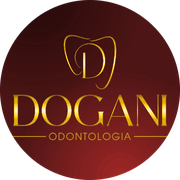
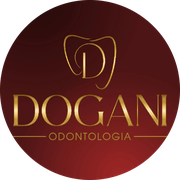
Ouro suave, equipe, pre-agendamento e ajustes mobile
- Dourado mais suave (champanhe) nos detalhes e no logo
- Secao Nossa equipe com foto real do Instagram
- Depoimentos reais do Google
- Formulario de pre-agendamento que monta a mensagem do WhatsApp
- Waze, copiar endereco e botao voltar ao topo
- Ajustes de layout para celular

diff --git a/styles.css b/styles.css
@@ -3,20 +3,20 @@
   --vinho: #4A0E15;
   --vinho-fundo: #2C070B;
   --vinho-luz: #8A1E28;
-  --ouro: #FFD02A;
-  --ouro-claro: #FFE680;
-  --ouro-escuro: #B8860B;
+  --ouro: #D9AE4E;
+  --ouro-claro: #F0D68C;
+  --ouro-escuro: #A97C1F;
   --porcelana: #FBF8F6;
   --rosado: #F4ECEA;
   --tinta: #2A1316;
   --tinta-suave: #6D5457;
-  --linha: rgba(255, 208, 42, .38);
+  --linha: rgba(217, 174, 78, .38);
   --serif: "Bodoni Moda", Didot, "Bodoni 72", Georgia, serif;
   --sans: "Jost", "Segoe UI", system-ui, sans-serif;
   --wrap: 1200px;
   --gutter: clamp(16px, 4vw, 48px);
   --ease: cubic-bezier(.2, .7, .2, 1);
-  --gold-grad: linear-gradient(135deg, #FFF4B8 0%, #FFD02A 38%, #E0A800 62%, #FFE56B 100%);
+  --gold-grad: linear-gradient(135deg, #F6E3AE 0%, #D9AE4E 38%, #B88A2E 62%, #EED596 100%);
 }
 
 *, *::before, *::after { box-sizing: border-box; }
@@ -61,11 +61,11 @@ ul, ol, dl, dd, figure { margin: 0; padding: 0; }
 .btn-sm { min-height: 42px; padding: 9px 22px; font-size: .95rem; }
 .btn-gold {
   background: var(--gold-grad); color: var(--vinho-fundo);
-  box-shadow: 0 1px 0 rgba(255,255,255,.35) inset, 0 10px 24px -12px rgba(255, 208, 42,.8);
+  box-shadow: 0 1px 0 rgba(255,255,255,.35) inset, 0 10px 24px -12px rgba(217, 174, 78,.8);
 }
-.btn-gold:hover { box-shadow: 0 1px 0 rgba(255,255,255,.45) inset, 0 14px 30px -12px rgba(255, 230, 128,.95); }
-.btn-ghost { color: var(--ouro-claro); border-color: rgba(255, 230, 128,.4); }
-.btn-ghost:hover { border-color: var(--ouro-claro); background: rgba(255, 230, 128,.06); }
+.btn-gold:hover { box-shadow: 0 1px 0 rgba(255,255,255,.45) inset, 0 14px 30px -12px rgba(240, 214, 140,.95); }
+.btn-ghost { color: var(--ouro-claro); border-color: rgba(240, 214, 140,.4); }
+.btn-ghost:hover { border-color: var(--ouro-claro); background: rgba(240, 214, 140,.06); }
 .btn-wine { background: var(--vinho); color: #fff; }
 .btn-wine:hover { background: var(--vinho-luz); }
 .btn-line { color: var(--vinho); border-color: var(--vinho); }
@@ -91,12 +91,12 @@ ul, ol, dl, dd, figure { margin: 0; padding: 0; }
 .topbar.is-solid {
   background: rgba(44, 7, 11, .92);
   -webkit-backdrop-filter: blur(12px); backdrop-filter: blur(12px);
-  border-bottom-color: rgba(255, 208, 42,.22);
+  border-bottom-color: rgba(217, 174, 78,.22);
 }
 .topbar.is-solid .topbar-inner { padding-top: 10px; padding-bottom: 10px; }
 .brand { transition: opacity .35s var(--ease), transform .35s var(--ease); }
 .topbar:not(.is-solid) .brand { opacity: 0; transform: translateY(-6px); pointer-events: none; }
-.brand img { height: 78px; width: auto; filter: drop-shadow(0 0 10px rgba(255, 208, 42, .25)); transition: height .35s var(--ease); }
+.brand img { height: 78px; width: auto; filter: drop-shadow(0 0 10px rgba(217, 174, 78, .25)); transition: height .35s var(--ease); }
 .topbar.is-solid .brand img { height: 62px; }
 .nav { display: flex; gap: 30px; margin-left: auto; }
 .nav a {
@@ -120,7 +120,7 @@ ul, ol, dl, dd, figure { margin: 0; padding: 0; }
 }
 .hero-glow {
   position: absolute; z-index: -1; width: 70vmax; height: 70vmax; right: -18vmax; top: -22vmax;
-  background: radial-gradient(circle, rgba(255, 208, 42,.18) 0%, rgba(255, 208, 42,0) 60%);
+  background: radial-gradient(circle, rgba(217, 174, 78,.18) 0%, rgba(217, 174, 78,0) 60%);
   pointer-events: none;
 }
 .hero::after { /* fine silk texture, like the curtain in the logo artwork */
@@ -165,10 +165,10 @@ ul, ol, dl, dd, figure { margin: 0; padding: 0; }
   display: grid; grid-template-columns: repeat(3, 1fr);
 }
 .hero-facts li {
-  padding: 22px 0 26px; border-top: 1px solid rgba(255, 208, 42,.35);
+  padding: 22px 0 26px; border-top: 1px solid rgba(217, 174, 78,.35);
   display: flex; flex-direction: column; gap: 2px;
 }
-.hero-facts li + li { padding-left: 28px; border-left: 1px solid rgba(255, 208, 42,.2); }
+.hero-facts li + li { padding-left: 28px; border-left: 1px solid rgba(217, 174, 78,.2); }
 .hero-facts strong { font-family: var(--serif); font-weight: 500; font-size: 1.15rem; color: var(--ouro-claro); }
 .hero-facts span { font-size: .93rem; color: rgba(255,255,255,.62); }
 
@@ -188,7 +188,7 @@ ul, ol, dl, dd, figure { margin: 0; padding: 0; }
   padding: clamp(26px, 3vw, 38px); box-shadow: 0 30px 60px -44px rgba(74, 14, 21, .45);
 }
 .rv-card::before { content: ""; position: absolute; left: 28px; right: 28px; top: -1px; height: 2px; background: var(--gold-grad); }
-.rv-stars { color: var(--ouro); letter-spacing: .18em; font-size: 1.05rem; text-shadow: 0 0 10px rgba(255, 208, 42, .45); }
+.rv-stars { color: var(--ouro); letter-spacing: .18em; font-size: 1.05rem; text-shadow: 0 0 10px rgba(217, 174, 78, .45); }
 .rv-card blockquote { margin: 0; font-family: var(--serif); font-size: 1.16rem; line-height: 1.5; color: var(--tinta); flex: 1; }
 .rv-who { margin: 0; font-weight: 500; color: var(--vinho); }
 .rv-who span { font-weight: 400; color: var(--tinta-suave); font-size: .92rem; }
@@ -308,7 +308,7 @@ ul, ol, dl, dd, figure { margin: 0; padding: 0; }
 .lightbox figcaption { margin-top: 12px; color: var(--ouro-claro); font-family: var(--serif); font-size: 1.15rem; text-align: center; }
 .lightbox-close {
   position: absolute; top: 12px; right: 12px; z-index: 2; width: 44px; height: 44px; border-radius: 50%; cursor: pointer;
-  background: rgba(44,7,11,.75); border: 1px solid rgba(255, 230, 128,.6); color: var(--ouro-claro); font-size: 1.6rem; line-height: 1;
+  background: rgba(44,7,11,.75); border: 1px solid rgba(240, 214, 140,.6); color: var(--ouro-claro); font-size: 1.6rem; line-height: 1;
 }
 
 /* ---------- Instagram rail ---------- */
@@ -341,7 +341,7 @@ ul, ol, dl, dd, figure { margin: 0; padding: 0; }
 .steps .sec-head h2 { color: var(--ouro-claro); }
 .steps .sec-head p { color: rgba(255,255,255,.7); }
 .step-list { list-style: none; counter-reset: step; display: grid; grid-template-columns: repeat(3, 1fr); gap: clamp(28px, 4vw, 56px); }
-.step-list li { counter-increment: step; padding-top: 24px; border-top: 1px solid rgba(255, 208, 42,.5); }
+.step-list li { counter-increment: step; padding-top: 24px; border-top: 1px solid rgba(217, 174, 78,.5); }
 .step-list li::before {
   content: counter(step);
   display: block; font-family: var(--serif); font-style: italic; font-size: 3.6rem; line-height: 1; margin-bottom: 18px;
@@ -383,7 +383,7 @@ ul, ol, dl, dd, figure { margin: 0; padding: 0; }
 .footer { background: var(--vinho-fundo); color: rgba(255,255,255,.72); padding: 64px 0 40px; font-size: .95rem; }
 .footer-inner { display: grid; gap: 32px; }
 .footer-logo { width: 180px; }
-.footer-cols { display: grid; grid-template-columns: repeat(3, 1fr); gap: 24px; padding-top: 28px; border-top: 1px solid rgba(255, 208, 42,.25); }
+.footer-cols { display: grid; grid-template-columns: repeat(3, 1fr); gap: 24px; padding-top: 28px; border-top: 1px solid rgba(217, 174, 78,.25); }
 .footer a { text-decoration: none; }
 .footer a:hover { color: var(--ouro-claro); text-decoration: underline; text-underline-offset: 4px; }
 .footer-copy { color: rgba(255,255,255,.45); font-size: .88rem; }
@@ -450,14 +450,14 @@ ul, ol, dl, dd, figure { margin: 0; padding: 0; }
     position: fixed; inset: auto 0 0 0; z-index: 35;
     display: grid; grid-template-columns: 1.3fr 1fr 1fr;
     background: rgba(44,7,11,.96); -webkit-backdrop-filter: blur(10px); backdrop-filter: blur(10px);
-    border-top: 1px solid rgba(255, 208, 42,.35);
+    border-top: 1px solid rgba(217, 174, 78,.35);
     padding-bottom: env(safe-area-inset-bottom);
   }
   .mbar a {
     display: flex; align-items: center; justify-content: center; gap: 8px;
     min-height: 64px; text-decoration: none; color: var(--ouro-claro); font-size: .95rem;
   }
-  .mbar a + a { border-left: 1px solid rgba(255, 208, 42,.2); }
+  .mbar a + a { border-left: 1px solid rgba(217, 174, 78,.2); }
   .mbar a:first-child { background: var(--gold-grad); color: var(--vinho-fundo); font-weight: 500; }
   .mbar svg { width: 20px; height: 20px; fill: none; stroke: currentColor; stroke-width: 1.6; stroke-linejoin: round; }
 }
@@ -466,4 +466,78 @@ ul, ol, dl, dd, figure { margin: 0; padding: 0; }
   html { scroll-behavior: auto; }
   *, *::before, *::after { animation-duration: .01ms !important; animation-delay: 0s !important; transition-duration: .01ms !important; }
   .hero-copy > *, .hero-logo { opacity: 1; transform: none; }
+}
+
+/* ---------- Pre-booking form ---------- */
+.book {
+  margin-top: clamp(48px, 7vw, 80px); padding: clamp(24px, 4vw, 44px);
+  border: 1px solid rgba(217, 174, 78, .45); border-radius: 4px 36px 4px 36px;
+  background: rgba(44, 7, 11, .45); scroll-margin-top: 100px;
+}
+.book-head h3 { font-size: clamp(1.6rem, 3vw, 2.2rem); color: var(--ouro-claro); }
+.book-head p { margin: 8px 0 28px; color: rgba(255,255,255,.72); max-width: 60ch; }
+.book-grid { display: grid; grid-template-columns: repeat(2, minmax(0, 1fr)); gap: 22px 28px; margin-bottom: 26px; }
+.book-field { display: flex; flex-direction: column; gap: 8px; border: 0; padding: 0; margin: 0; min-width: 0; }
+.book-field > span, .book-field legend { font-size: .9rem; letter-spacing: .04em; color: var(--ouro-claro); padding: 0; margin-bottom: 8px; }
+.book-field input[type="text"], .book-field select {
+  font: 400 1rem/1.3 var(--sans); color: #fff; background: rgba(255,255,255,.06);
+  border: 1px solid rgba(240, 214, 140, .35); border-radius: 6px; padding: 13px 14px; min-height: 48px; width: 100%;
+}
+.book-field select option { color: var(--tinta); }
+.book-field input::placeholder { color: rgba(255,255,255,.45); }
+.book-field input:focus, .book-field select:focus { outline: 2px solid var(--ouro); outline-offset: 1px; border-color: transparent; }
+.book-chips { flex-direction: row; flex-wrap: wrap; gap: 10px; }
+.book-chips legend { width: 100%; }
+.book-chips label { position: relative; cursor: pointer; }
+.book-chips input { position: absolute; opacity: 0; inset: 0; cursor: pointer; }
+.book-chips span {
+  display: inline-block; padding: 10px 18px; border-radius: 999px; min-height: 44px;
+  border: 1px solid rgba(240, 214, 140, .35); color: rgba(255,255,255,.85); transition: background-color .2s, color .2s, border-color .2s;
+}
+.book-chips input:checked + span { background: var(--gold-grad); color: var(--vinho-fundo); border-color: transparent; font-weight: 500; }
+.book-chips input:focus-visible + span { outline: 2px solid var(--ouro); outline-offset: 2px; }
+.book-error { color: #FFB4A8; margin: -10px 0 16px; }
+.tr-book { display: inline-block; margin-left: 18px; color: var(--ouro-escuro); text-underline-offset: 5px; text-decoration-color: var(--ouro); font-size: .95rem; }
+
+/* ---------- Visit extras + back to top ---------- */
+.copy-ok { min-height: 1.4em; margin-top: 10px; color: var(--ouro-escuro); font-size: .95rem; }
+.to-top {
+  position: fixed; right: 30px; bottom: 98px; z-index: 30; width: 46px; height: 46px; border-radius: 50%;
+  border: 1px solid rgba(217, 174, 78, .6); background: rgba(44, 7, 11, .88); color: var(--ouro-claro);
+  font-size: 1.2rem; cursor: pointer; box-shadow: 0 10px 24px -10px rgba(44,7,11,.6); transition: transform .2s var(--ease);
+}
+.to-top:hover { transform: translateY(-2px); }
+.to-top[hidden] { display: none; }
+
+@media (max-width: 900px) {
+  .book-grid { grid-template-columns: 1fr; }
+  .tr-book { display: block; margin: 14px 0 0; }
+}
+@media (max-width: 640px) {
+  .to-top { bottom: 84px; right: 16px; }
+}
+
+/* ---------- Team ---------- */
+.team { background: var(--vinho-fundo); color: #fff; padding: clamp(72px, 10vw, 128px) 0; }
+.team-inner { display: grid; grid-template-columns: .8fr 1.2fr; gap: clamp(36px, 6vw, 88px); align-items: center; }
+.team h2 { font-size: clamp(2.2rem, 4.6vw, 3.5rem); color: var(--ouro-claro); }
+.team-copy p { margin: 18px 0 30px; max-width: 42ch; color: rgba(255,255,255,.8); font-size: 1.08rem; font-weight: 300; }
+.team-photo { margin: 0; position: relative; }
+.team-photo img { width: 100%; height: auto; border-radius: 4px 40px 4px 40px; box-shadow: 0 40px 80px -40px rgba(0,0,0,.85); }
+.team-photo::before {
+  content: ""; position: absolute; inset: -14px 14px 14px -14px; border: 1px solid rgba(217, 174, 78, .5);
+  border-radius: 4px 40px 4px 40px; z-index: -1;
+}
+.team-inner { position: relative; z-index: 0; }
+.team-photo figcaption { margin-top: 14px; font-size: .92rem; color: rgba(240, 214, 140, .8); }
+@media (max-width: 900px) { .team-inner { grid-template-columns: 1fr; } .team-photo { order: -1; } }
+
+/* ---------- Mobile polish ---------- */
+button.btn-line { background: transparent; }
+button.btn-line:hover { background: var(--rosado); }
+@media (max-width: 640px) {
+  .team-photo::before { inset: -8px 8px 8px -8px; }
+  .book .btn { width: 100%; }
+  .book-chips span { padding: 10px 16px; }
+  .rv-card blockquote { font-size: 1.08rem; }
 }

diff --git a/index.html b/index.html
@@ -20,7 +20,7 @@
 <link rel="preconnect" href="https://fonts.googleapis.com">
 <link rel="preconnect" href="https://fonts.gstatic.com" crossorigin>
 <link rel="stylesheet" href="https://fonts.googleapis.com/css2?family=Bodoni+Moda:ital,opsz,wght@0,6..96,400..600;1,6..96,400..500&family=Jost:wght@300;400;500&display=swap">
-<link rel="stylesheet" href="styles.css?v=8">
+<link rel="stylesheet" href="styles.css?v=11">
 <link rel="preload" as="image" href="img/logo-dogani.png">
 <script type="application/ld+json">
 {
@@ -217,6 +217,21 @@
     </div>
   </section>
 
+  <!-- EQUIPE (foto real do Instagram @doganiodontologia, set/2025) -->
+  <section class="team" id="equipe" aria-labelledby="e-title">
+    <div class="wrap team-inner">
+      <div class="team-copy">
+        <h2 id="e-title">Nossa equipe</h2>
+        <p>Dentistas e equipe de apoio trabalhando juntos para que cada visita seja leve, do primeiro “bom dia” na recepção ao fim do tratamento.</p>
+        <a class="btn btn-gold" href="#agendar">Agendar com a equipe</a>
+      </div>
+      <figure class="team-photo">
+        <img src="img/equipe-dogani-800.webp" srcset="img/equipe-dogani-800.webp 800w, img/equipe-dogani.webp 1440w" sizes="(max-width: 900px) 92vw, 58vw" width="1440" height="1252" loading="lazy" alt="Equipe da Dogani Odontologia reunida na recepção do consultório, todos com camisa preta com a logo dourada">
+        <figcaption>Equipe Dogani na recepção do consultório</figcaption>
+      </figure>
+    </div>
+  </section>
+
   <!-- O CONSULTÓRIO -->
   <section class="section space" id="consultorio" aria-labelledby="c-title">
     <div class="wrap">
@@ -310,6 +325,45 @@
         <li><h3>Faça sua avaliação</h3><p>A Dra. Bruna examina, tira suas dúvidas e apresenta as opções para o seu caso.</p></li>
         <li><h3>Receba seu plano</h3><p>Você conhece cada etapa do tratamento antes de decidir começar.</p></li>
       </ol>
+
+      <form class="book" id="agendar" data-book novalidate aria-labelledby="book-title">
+        <div class="book-head">
+          <h3 id="book-title">Pré-agendamento em 30 segundos</h3>
+          <p>Preencha e a mensagem já chega pronta no WhatsApp da clínica. Nada fica salvo neste site.</p>
+        </div>
+        <div class="book-grid">
+          <label class="book-field">
+            <span>Seu nome</span>
+            <input name="nome" type="text" autocomplete="given-name" maxlength="60" required placeholder="Como podemos te chamar?">
+          </label>
+          <label class="book-field">
+            <span>Tratamento</span>
+            <select name="tratamento" data-book-tr>
+              <option>Avaliação geral</option>
+              <option>Clínica geral e check-up</option>
+              <option>Clareamento em consultório</option>
+              <option>Facetas dentárias</option>
+              <option>Alinhadores invisíveis</option>
+              <option>Ortodontia e ortopedia funcional</option>
+              <option>Implantes dentários</option>
+              <option>Atendimento infantil</option>
+            </select>
+          </label>
+          <fieldset class="book-field book-chips">
+            <legend>Melhor período</legend>
+            <label><input type="radio" name="periodo" value="Manhã" checked><span>Manhã</span></label>
+            <label><input type="radio" name="periodo" value="Tarde"><span>Tarde</span></label>
+            <label><input type="radio" name="periodo" value="Qualquer horário"><span>Tanto faz</span></label>
+          </fieldset>
+          <fieldset class="book-field book-chips">
+            <legend>Atendimento</legend>
+            <label><input type="radio" name="plano" value="Particular" checked><span>Particular</span></label>
+            <label><input type="radio" name="plano" value="Convênio Amil"><span>Amil</span></label>
+          </fieldset>
+        </div>
+        <p class="book-error" role="alert" hidden>Digite seu nome para continuar.</p>
+        <button class="btn btn-gold" type="submit">Enviar pelo WhatsApp</button>
+      </form>
     </div>
   </section>
 
@@ -357,8 +411,11 @@
         </dl>
         <div class="actions">
           <a class="btn btn-wine" data-wa="Olá! Gostaria de agendar uma avaliação na Dogani Odontologia." href="https://wa.me/5511996848349">Agendar pelo WhatsApp</a>
-          <a class="btn btn-line" href="https://www.google.com/maps/search/?api=1&amp;query=Av.+Goi%C3%A1s,+2909+-+Barcelona,+S%C3%A3o+Caetano+do+Sul+-+SP,+09550-051" target="_blank" rel="noopener">Traçar rota</a>
+          <a class="btn btn-line" href="https://www.google.com/maps/search/?api=1&amp;query=Av.+Goi%C3%A1s,+2909+-+Barcelona,+S%C3%A3o+Caetano+do+Sul+-+SP,+09550-051" target="_blank" rel="noopener">Google Maps</a>
+          <a class="btn btn-line" href="https://waze.com/ul?q=Av.%20Goi%C3%A1s%2C%202909%2C%20S%C3%A3o%20Caetano%20do%20Sul&amp;navigate=yes" target="_blank" rel="noopener">Waze</a>
+          <button class="btn btn-line" type="button" data-copy="Av. Goiás, 2909, Barcelona, São Caetano do Sul - SP, 09550-051">Copiar endereço</button>
         </div>
+        <p class="copy-ok" role="status" aria-live="polite"></p>
       </div>
       <div class="map">
         <iframe title="Mapa: Dogani Odontologia, Av. Goiás, 2909, São Caetano do Sul" loading="lazy" referrerpolicy="no-referrer-when-downgrade"
@@ -393,6 +450,7 @@
     <svg viewBox="0 0 24 24" aria-hidden="true"><path d="M12 21s-7-6.2-7-11.5a7 7 0 0 1 14 0C19 14.8 12 21 12 21z"/><circle cx="12" cy="9.5" r="2.5"/></svg>Rota</a>
 </nav>
 
-<script src="script.js?v=6" defer></script>
+<button class="to-top" type="button" data-top aria-label="Voltar ao topo" hidden>↑</button>
+<script src="script.js?v=7" defer></script>
 </body>
 </html>

diff --git a/script.js b/script.js
@@ -94,6 +94,64 @@
     lb.addEventListener('close', function () { if (opener) opener.focus(); });
   }
 
+  // Pre-booking form: builds the WhatsApp message locally; nothing is sent to or stored by this site.
+  var book = document.querySelector('[data-book]');
+  if (book) {
+    var err = book.querySelector('.book-error');
+    book.addEventListener('submit', function (e) {
+      e.preventDefault();
+      var nome = book.elements.nome.value.replace(/\s+/g, ' ').trim().slice(0, 60);
+      if (!nome) { err.hidden = false; book.elements.nome.focus(); return; }
+      err.hidden = true;
+      var msg = 'Olá! Meu nome é ' + nome + '. Gostaria de agendar: ' + book.elements.tratamento.value +
+        '. Melhor período: ' + book.elements.periodo.value + '. Atendimento: ' + book.elements.plano.value + '.';
+      if (book.elements.plano.value.indexOf('Amil') !== -1) msg += ' Posso enviar a foto da carteirinha.';
+      window.open('https://wa.me/' + WHATSAPP + '?text=' + encodeURIComponent(msg), '_blank', 'noopener');
+    });
+    book.elements.nome.addEventListener('input', function () { err.hidden = true; });
+  }
+
+  // Treatment panels: "pre-book this" preselects the treatment in the form.
+  if (book) {
+    document.querySelectorAll('.tr-panel').forEach(function (panel) {
+      var h = panel.querySelector('h3');
+      if (!h) return;
+      var a = document.createElement('a');
+      a.className = 'tr-book';
+      a.href = '#agendar';
+      a.setAttribute('data-book-pick', h.textContent.trim());
+      a.textContent = 'ou pré-agende pelo formulário';
+      panel.appendChild(a);
+    });
+  }
+  document.querySelectorAll('[data-book-pick]').forEach(function (a) {
+    a.addEventListener('click', function () {
+      var sel = book && book.querySelector('[data-book-tr]');
+      if (sel) sel.value = a.getAttribute('data-book-pick');
+    });
+  });
+
+  // Copy address to clipboard.
+  var copyBtn = document.querySelector('[data-copy]');
+  var copyOk = document.querySelector('.copy-ok');
+  if (copyBtn && navigator.clipboard) {
+    copyBtn.addEventListener('click', function () {
+      navigator.clipboard.writeText(copyBtn.getAttribute('data-copy')).then(function () {
+        copyOk.textContent = 'Endereço copiado.';
+        setTimeout(function () { copyOk.textContent = ''; }, 2500);
+      });
+    });
+  } else if (copyBtn) {
+    copyBtn.hidden = true;
+  }
+
+  // Back to top.
+  var toTop = document.querySelector('[data-top]');
+  if (toTop) {
+    window.addEventListener('scroll', function () { toTop.hidden = window.scrollY < 900; }, { passive: true });
+    toTop.addEventListener('click', function () { window.scrollTo({ top: 0, behavior: 'smooth' }); });
+  }
+
   var ano = document.getElementById('ano');
   if (ano) ano.textContent = String(new Date().getFullYear());
 })();
